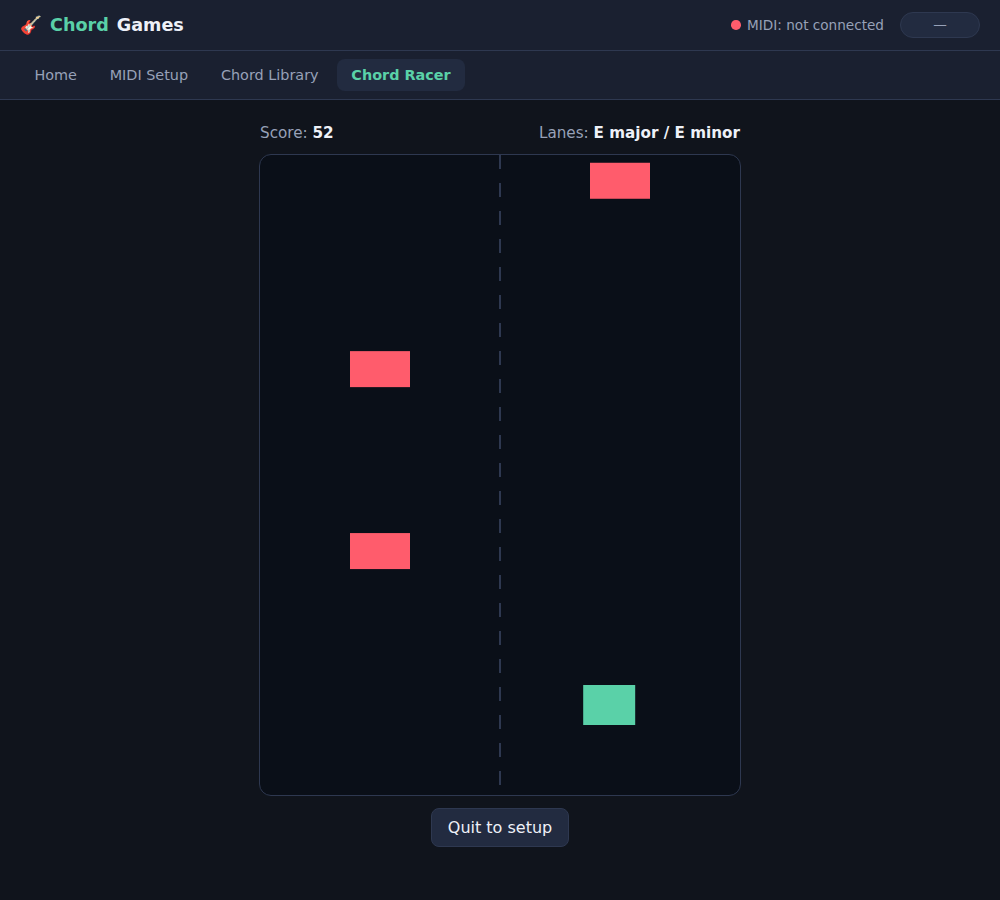
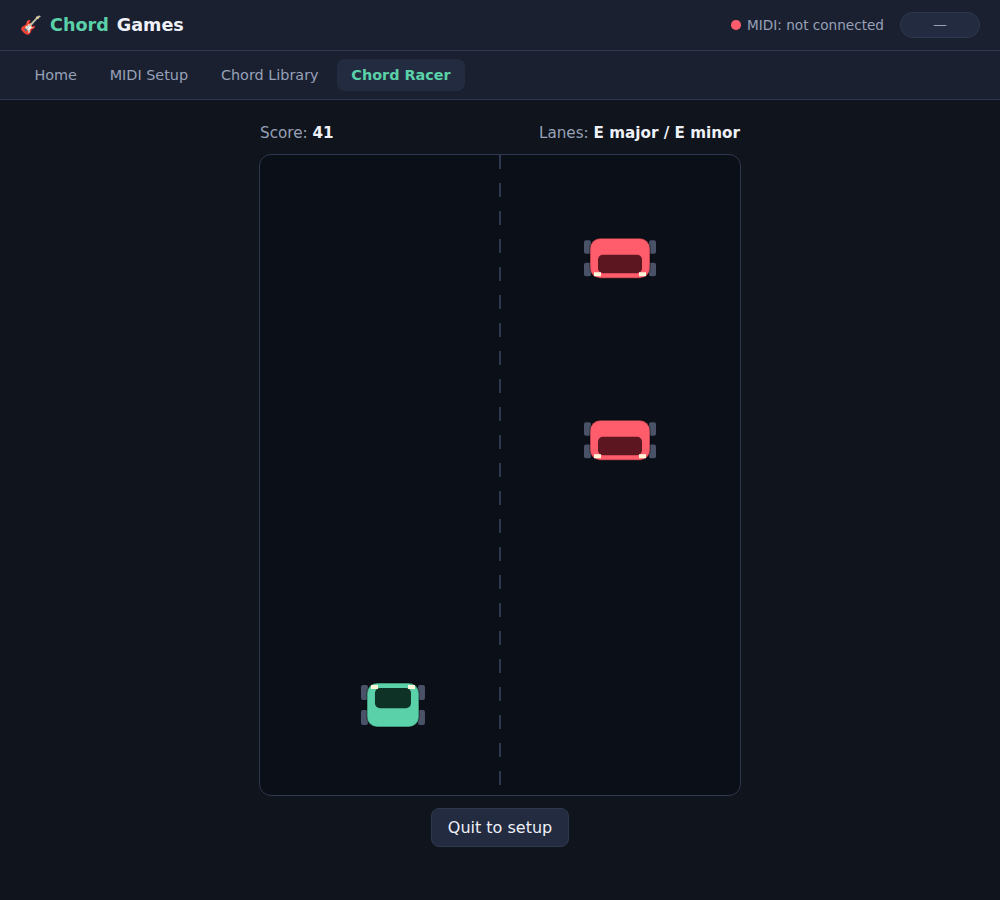
Render actual car sprites in Chord Racer instead of plain rectangles
Cars now have a body, cabin/windshield, headlights, and wheels poking
out the sides, oriented so the player faces up-road and obstacles
face down toward the player. Updated the README screenshot to match.

Claude-Session: https://claude.ai/code/session_01EGe1Ve1AHv2yf78vechciZ

diff --git a/src/games/chordRacer.js b/src/games/chordRacer.js
@@ -124,14 +124,72 @@ export class ChordRacerGame extends EventTarget {
     }
     ctx.setLineDash([]);
 
-    ctx.fillStyle = '#ff5c6c';
     for (const ob of this.obstacles) {
       const x = this._laneCenterX(ob.lane);
-      ctx.fillRect(x - OBSTACLE_HALF_WIDTH, ob.y - 18, OBSTACLE_HALF_WIDTH * 2, 36);
+      this._drawCar(x, ob.y, OBSTACLE_HALF_WIDTH * 2, 40, {
+        body: '#ff5c6c',
+        cabin: '#5c1620',
+        facing: 'down',
+      });
     }
 
     const carY = canvas.height - 90;
-    ctx.fillStyle = '#5ad1a8';
-    ctx.fillRect(this.carX - CAR_HALF_WIDTH, carY - 20, CAR_HALF_WIDTH * 2, 40);
+    this._drawCar(this.carX, carY, CAR_HALF_WIDTH * 2, 44, {
+      body: '#5ad1a8',
+      cabin: '#0f3226',
+      facing: 'up',
+    });
+  }
+
+  /** Draw a simple top-down car sprite centered at (cx, cy). */
+  _drawCar(cx, cy, width, height, { body, cabin, facing }) {
+    const ctx = this.ctx;
+    const halfW = width / 2;
+    const halfH = height / 2;
+    const noseUp = facing === 'up';
+
+    ctx.save();
+    ctx.translate(cx, cy);
+
+    // Wheels: four nubs that clearly poke out past the body's sides, in a
+    // mid-tone that reads against both the dark road and the body color.
+    const wheelW = 7;
+    const wheelH = height * 0.34;
+    const wheelInsetY = halfH - wheelH / 2 - 2;
+    ctx.fillStyle = '#4a5268';
+    for (const side of [-1, 1]) {
+      for (const dir of [-1, 1]) {
+        ctx.beginPath();
+        ctx.roundRect(side * halfW - (side > 0 ? 1 : wheelW - 1), dir * wheelInsetY - wheelH / 2, wheelW, wheelH, 2);
+        ctx.fill();
+      }
+    }
+
+    // Body, with a thin dark outline so it stays legible against similarly
+    // dark obstacles/background.
+    ctx.fillStyle = body;
+    ctx.strokeStyle = 'rgba(0, 0, 0, 0.35)';
+    ctx.lineWidth = 1.5;
+    ctx.beginPath();
+    ctx.roundRect(-halfW, -halfH, width, height, 10);
+    ctx.fill();
+    ctx.stroke();
+
+    // Cabin/roof block, offset toward the nose so which way the car is
+    // facing is obvious even at a glance.
+    const cabinH = height * 0.46;
+    const cabinY = noseUp ? -halfH + 5 : halfH - 5 - cabinH;
+    ctx.fillStyle = cabin;
+    ctx.beginPath();
+    ctx.roundRect(-halfW + 8, cabinY, width - 16, cabinH, 5);
+    ctx.fill();
+
+    // Headlights at the nose edge.
+    ctx.fillStyle = '#fff6d8';
+    const lightY = noseUp ? -halfH + 2 : halfH - 6;
+    ctx.fillRect(-halfW + 4, lightY, 7, 4);
+    ctx.fillRect(halfW - 11, lightY, 7, 4);
+
+    ctx.restore();
   }
 }
